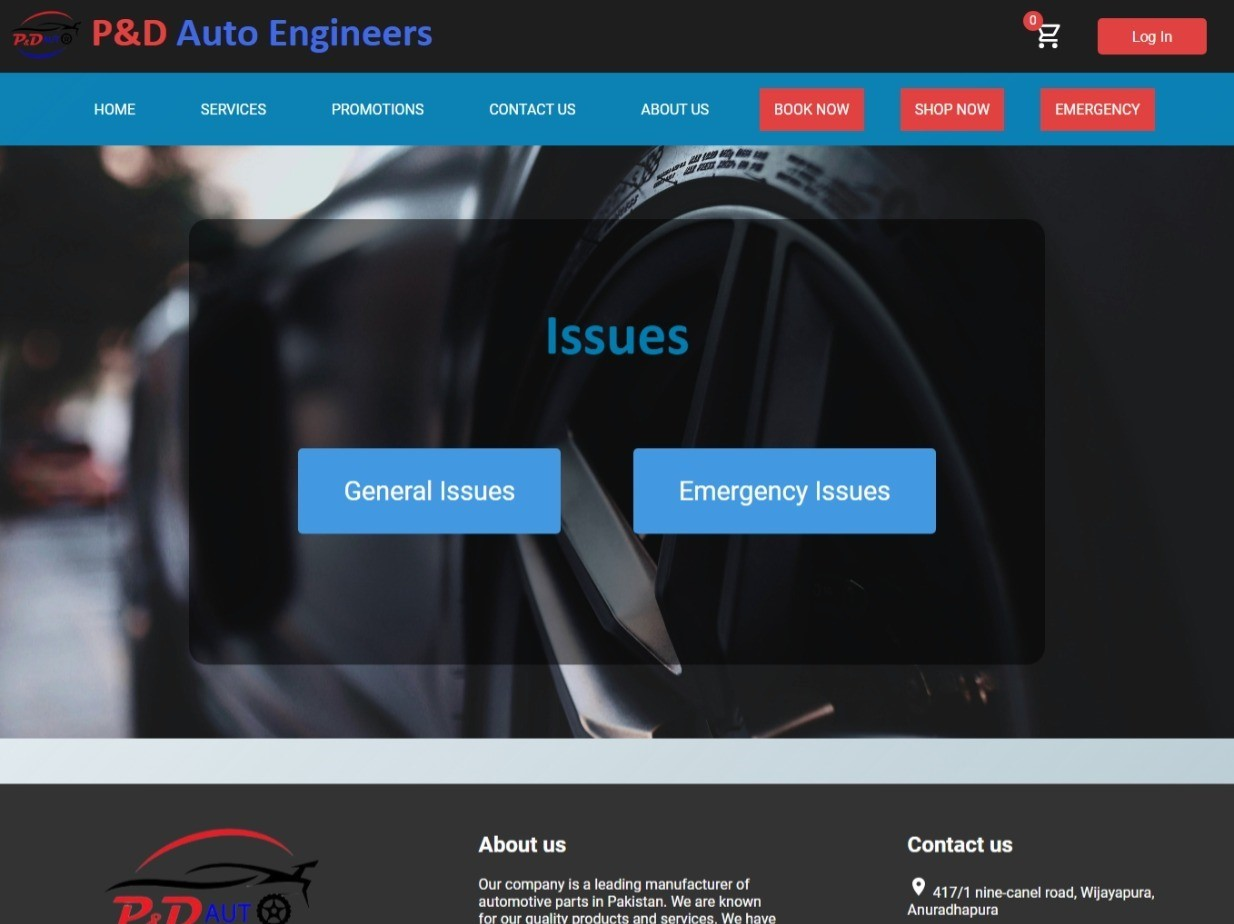
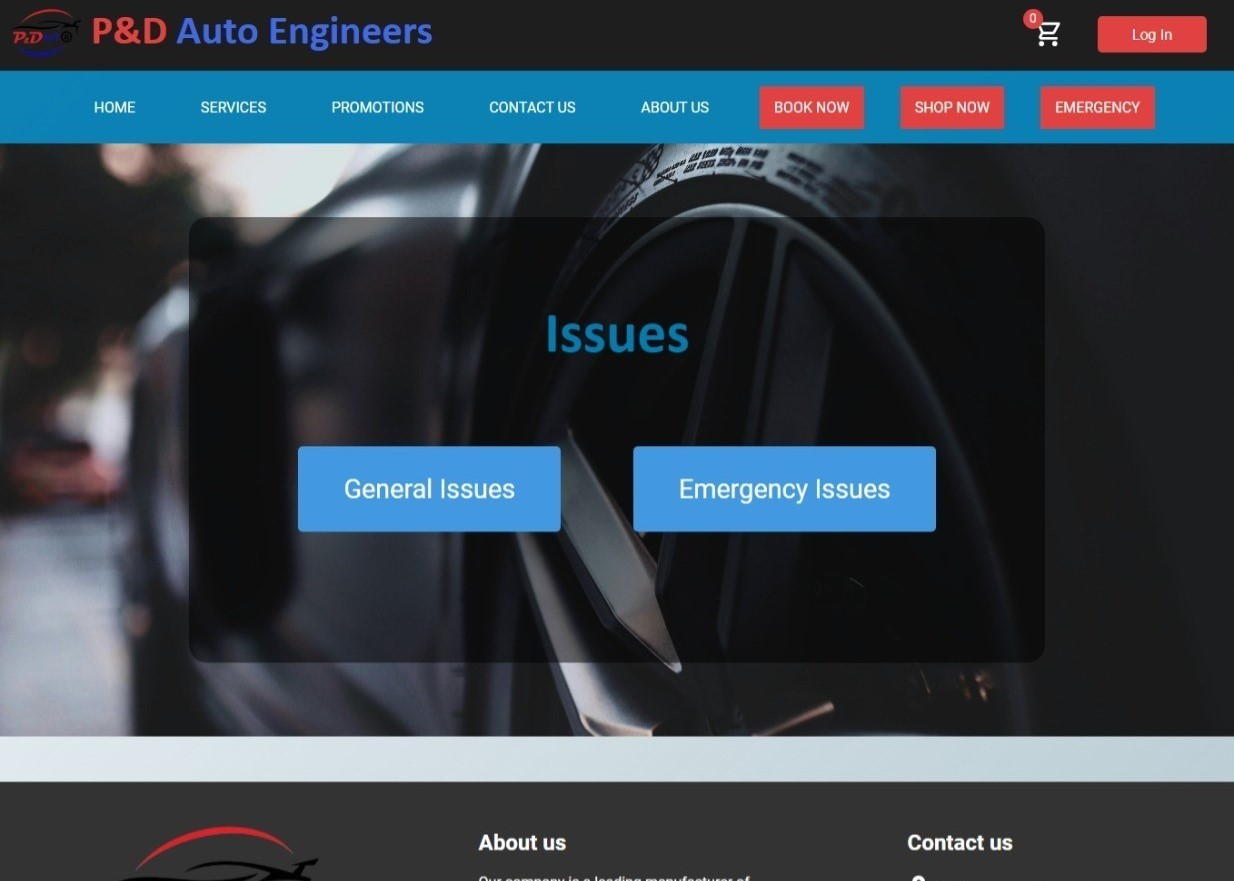
chnge project

diff --git a/my-app/src/App.css b/my-app/src/App.css
@@ -272,7 +272,7 @@ nav.navbar .navbar-toggler[aria-expanded="true"] .navbar-toggler-icon {
 .banner {
   margin-top: -100px;
   padding: 260px 0 100px 0;
-  background-image: url('./assets/img/r3.jpeg');
+  background-image: url('./assets/img/bg2.jpeg');
   background-position: top center;
   background-size: cover;
   background-repeat: no-repeat;
@@ -282,7 +282,7 @@ nav.navbar .navbar-toggler[aria-expanded="true"] .navbar-toggler-icon {
   font-weight: 700;
   letter-spacing: 0.8px;
   padding: 8px 10px;
-  background: linear-gradient(90.21deg, rgba(0, 0, 139, 0.5) -5.91%, rgba(173, 216, 230, 0.5) 111.58%);
+  background: linear-gradient(90.21deg, rgba(0, 0, 128, 0.8) -5.91%, rgba(1, 65, 1, 0.8) 111.58%);
   border: 1px solid rgba(17, 7, 112, 0.5);
   font-size: 20px;
   border-radius: 12px; 
@@ -390,10 +390,11 @@ nav.navbar .navbar-toggler[aria-expanded="true"] .navbar-toggler-icon {
 }
 
 .background-image-left {
-  top: 28%;
   position: absolute;
-  bottom: 0;
-  width: 40%;
+  top: 0;
+  left: 0;
+  width: 100%;
+  height: 100%;
   z-index: -4;
 }
 
@@ -452,7 +453,7 @@ nav.navbar .navbar-toggler[aria-expanded="true"] .navbar-toggler-icon {
   position: absolute;
   width: 0;
   height: 100%;
-  background: linear-gradient(90.21deg, rgba(0, 0, 139, 0.5) -5.91%, rgba(173, 216, 230, 0.5) 111.58%);
+  background: linear-gradient(90.21deg, rgba(0, 0, 128, 0.8) -5.91%, rgba(1, 65, 1, 0.8) 111.58%);
   top: 0;
   left: 0;
   z-index: -1;
@@ -491,7 +492,7 @@ nav.navbar .navbar-toggler[aria-expanded="true"] .navbar-toggler-icon {
 
 .proj-imgbx::before {
   content: "";
-  background: linear-gradient(90.21deg, rgba(0, 0, 100, 0.8) -5.91%, rgba(70, 130, 180, 0.8) 111.58%);
+  background: linear-gradient(90.21deg, rgba(1, 1, 73, 0.822) -5.91%, rgba(1, 65, 1, 0.8) 111.58%);
   opacity: 0.85;
   position: absolute;
   width: 100%;
@@ -534,17 +535,17 @@ nav.navbar .navbar-toggler[aria-expanded="true"] .navbar-toggler-icon {
 }
 
 .background-image-right {
-  top: 20%;
   position: absolute;
-  bottom: 0;
-  width: 35%;
-  right: 0;
+  top: 0;
+  left: 0;
+  width: 100%;
+  height: 100%;
   z-index: -4;
 }
 
 /************ Projects Css ************/
 .contact {
-  background: linear-gradient(90.21deg, rgba(0, 0, 100, 0.8) -5.91%, rgba(70, 130, 180, 0.8) 111.58%);
+  background: linear-gradient(90.21deg, rgba(0, 0, 128, 0.8) -5.91%, rgba(1, 65, 1, 0.8) 111.58%);
   padding: 60px 0 200px 0;
 }
 
@@ -665,7 +666,7 @@ nav.navbar .navbar-toggler[aria-expanded="true"] .navbar-toggler-icon {
 
 .new-email-bx::before {
   content: "";
-  background: linear-gradient(90.21deg, rgba(0, 0, 100, 0.8) -5.91%, rgba(70, 130, 180, 0.8) 111.58%);
+  background: linear-gradient(90.21deg, rgba(0, 0, 128, 0.8) -5.91%, rgba(1, 65, 1, 0.8) 111.58%);
   border-radius: 20px;
   position: absolute;
   z-index: -1;
@@ -697,7 +698,7 @@ nav.navbar .navbar-toggler[aria-expanded="true"] .navbar-toggler-icon {
 }
 
 .new-email-bx button {
-  background: linear-gradient(90.21deg, rgba(0, 0, 100, 0.8) -5.91%, rgba(70, 130, 180, 0.8) 111.58%);
+  background: linear-gradient(90.21deg, rgba(0, 0, 128, 0.8) -5.91%, rgba(1, 65, 1, 0.8) 111.58%);
   padding: 20px 65px;
   color: #fff;
   font-weight: 500;

diff --git a/my-app/src/components/Projects.js b/my-app/src/components/Projects.js
@@ -5,7 +5,8 @@ import projImg2 from "../assets/img/p2.jpeg";
 import projImg3 from "../assets/img/p3.jpeg";
 import projImg4 from "../assets/img/p4.jpg";
 import projImg5 from "../assets/img/p5.jpg";
-import colorSharp2 from "../assets/img/color-sharp2.png";
+import projImg6 from "../assets/img/p6.jpg";
+import colorSharp2 from "../assets/img/s2.jpeg";
 import 'animate.css';
 import TrackVisibility from 'react-on-screen';
 
@@ -40,7 +41,7 @@ export const Projects = () => {
     {
       title: "Medicare",
       description: "Flutter, Shareable medical profile",
-      imgUrl: projImg3,
+      imgUrl: projImg6,
     },
   ];
 

diff --git a/my-app/src/components/Skills.js b/my-app/src/components/Skills.js
@@ -3,9 +3,7 @@ import meter2 from "../assets/img/meter2.svg";
 import meter3 from "../assets/img/meter3.svg";
 import Carousel from 'react-multi-carousel';
 import 'react-multi-carousel/lib/styles.css';
-import arrow1 from "../assets/img/arrow1.svg";
-import arrow2 from "../assets/img/arrow2.svg";
-import colorSharp from "../assets/img/color-sharp.png"
+import colorSharp from "../assets/img/s1.jpeg"
 
 export const Skills = () => {
   const responsive = {

diff --git a/my-app/src/components/Footer.js b/my-app/src/components/Footer.js
@@ -12,7 +12,6 @@ export const Footer = () => {
         <Row className="align-items-center">
           <MailchimpForm />
           <Col size={12} sm={6}>
-            <img src={logo} alt="Logo" />
           </Col>
           <Col size={12} sm={6} className="text-center text-sm-end">
             <div className="social-icon">
